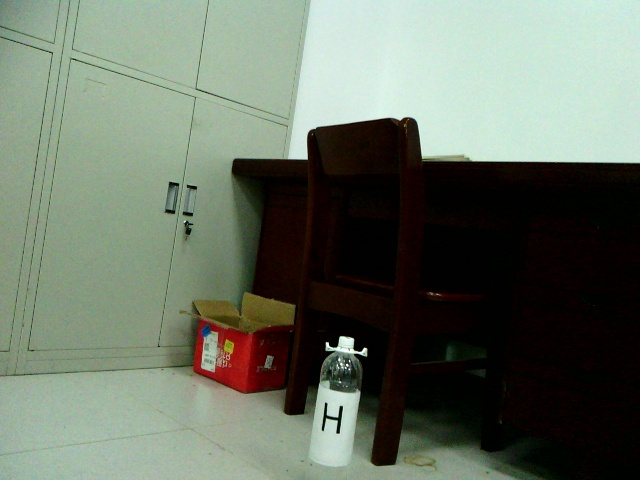
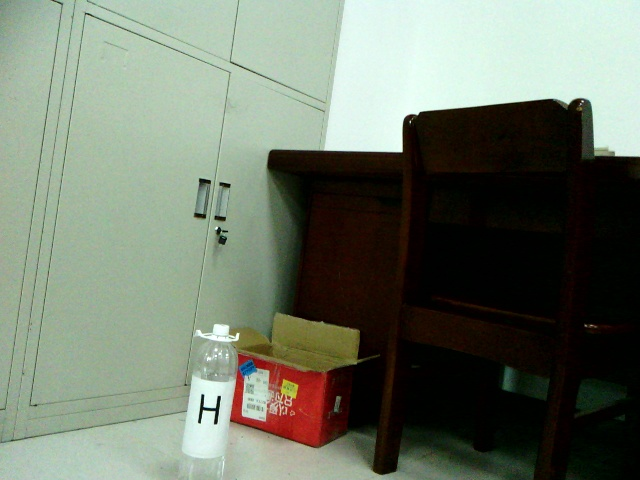
✨ feat: 完成测距跟踪，停止跟踪对接
优化流程图，剩下的后端还有循环跟踪未做

diff --git a/foo-server-py2.7/services/algorithm.py b/foo-server-py2.7/services/algorithm.py
@@ -1,13 +1,14 @@
 # coding=utf-8
 import os
 import cv2
+import math
 from flask import request
 import db
 from libs.image_process import take_picture, ImageProcess
 from libs.nao_proxy import nao_proxy, turn_head
 
 
-# 连接nao机器人
+# 开始跟踪
 def start_tracking(epoch):
     ip = request.ip
     if ip is not 1:
@@ -33,3 +34,73 @@ def start_tracking(epoch):
         return 'success', base_url + '/origin.jpg'
     else:
         return 'ErrIpNotFound'
+
+
+# 测距跟踪
+def range_and_tracking():
+    ip = request.ip
+    if ip is not 1:
+        motion_proxy = nao_proxy(ip)['motion_proxy']
+        speech_proxy = nao_proxy(ip)['speech_proxy']
+        posture_proxy = nao_proxy(ip)['posture_proxy']
+        track = db.track.find_one({}, {"_id": 0})
+        angle = track['angle']
+        forward_distance, side_distance = ranging()
+        motion_proxy.moveTo(0, 0, float(angle))
+        turn_head(motion_proxy, 0)
+        speech_proxy.say("开始跟踪")
+        motion_proxy.moveTo((forward_distance - 1.09) / 1.25, 0, 0)
+        turn_head(motion_proxy, 0)
+        posture_proxy.goToPosture("StandInit", 0.5)
+
+        return 'success'
+    else:
+        return 'ErrIpNotFound'
+
+
+# 停止跟踪
+def stop_tracking():
+    ip = request.ip
+    if ip is not 1:
+        speech_proxy = nao_proxy(ip)['speech_proxy']
+        motion_proxy = nao_proxy(ip)['motion_proxy']
+        speech_proxy.say("停止跟踪")
+        motion_proxy.rest()
+
+        return 'success'
+    else:
+        return 'ErrIpNotFound'
+
+
+# 作用：测距
+# 返回值：
+#   forward_distance：nao离目标物品前向距离
+#   side_distance：nao离目标物品侧向距离
+def ranging():
+    coordinate = db.coordinates.find_one({}, {"_id": 0})
+    bottom = float(coordinate['bottom'])
+    left = float(coordinate['left'])
+    right = float(coordinate['right'])
+
+    # 检测到物品下中心点的x坐标
+    center_x = (left + right) / 2
+    # 检测到物品下中心点的y坐标
+    center_y = bottom
+    dist_x = -(center_x - 640 / 2)
+    dist_y = center_y - 480 / 2
+    picture_angle = dist_y * (47.64 / 480)
+
+    # 摄像头距离地面高度
+    h = 0.51
+
+    # 摄像头自身离水平线的倾角
+    camera_angle = 1.2
+    total_angle = picture_angle + camera_angle
+    d1 = h / math.tan(total_angle * math.pi / 180)
+    alpha = dist_x * (60.92 / 640)
+    d2 = d1 / math.cos(alpha * math.pi / 180)
+    forward_distance = round(d2 * math.cos(alpha * math.pi / 180), 2)
+    side_distance = round(-d2 * math.sin(alpha * math.pi / 180), 2)
+    print(forward_distance, side_distance)
+
+    return forward_distance, side_distance

diff --git a/foo-server-py2.7/controllers/algorithm.py b/foo-server-py2.7/controllers/algorithm.py
@@ -11,7 +11,7 @@ algorithm_api = Blueprint('algorithm_api', __name__)
 headers = {'content-type': 'application/json'}
 
 
-# 连接机器人接口
+# 开始跟踪接口
 @algorithm_api.route("/startTracking")
 def start_tracking():
     epoch = request.args['epoch']
@@ -31,7 +31,23 @@ def start_tracking():
     except:
         return stats.err['ErrPy36ServerError'], 404
 
+
 # 连接机器人接口
 # @algorithm_api.route("/loopTracking")
 # def loop_tracking():
 #     epoch = request.args['epoch']
+
+# 测距跟踪接口
+@algorithm_api.route("/rangeTracking")
+def range_tracking():
+    data = algorithm.range_and_tracking()
+
+    return check(data)
+
+
+# 停止跟踪接口
+@algorithm_api.route("/stopTracking")
+def stop_tracking():
+    data = algorithm.stop_tracking()
+
+    return check(data)

diff --git a/foo-server-py2.7/main.py b/foo-server-py2.7/main.py
@@ -29,7 +29,7 @@ white_list = ['/api/py27/basic/connect']
 # 请求拦截
 @app.before_request
 def before():
-    ip = db.session.find_one()
+    ip = db.session.find_one({}, {"_id": 0})
     request.ip = 1
     if ip is not None:
         request.ip = ip['ip']

diff --git a/foo-server-py3.6/services/algorithm.py b/foo-server-py3.6/services/algorithm.py
@@ -156,3 +156,5 @@ def function(img, m, n):
                 empty_image[i, j] = np.array([blue, green, red], dtype=np.uint8)
 
     return empty_image
+
+

diff --git a/foo-server-py2.7/db.py b/foo-server-py2.7/db.py
@@ -6,3 +6,4 @@ db = client['foo-app']
 
 session = db.session
 track = db.track
+coordinates = db.coordinates

diff --git a/README.md b/README.md
@@ -4,7 +4,7 @@
 
 基于 Nao 机器人自动跟踪系统的前后端分离项目
 
-[![vOiOln.png](https://s1.ax1x.com/2022/09/10/vOiOln.png)](https://imgse.com/i/vOiOln)
+[![vXQWYn.png](https://s1.ax1x.com/2022/09/12/vXQWYn.png)](https://imgse.com/i/vXQWYn)
 
 ## 技术栈
 
